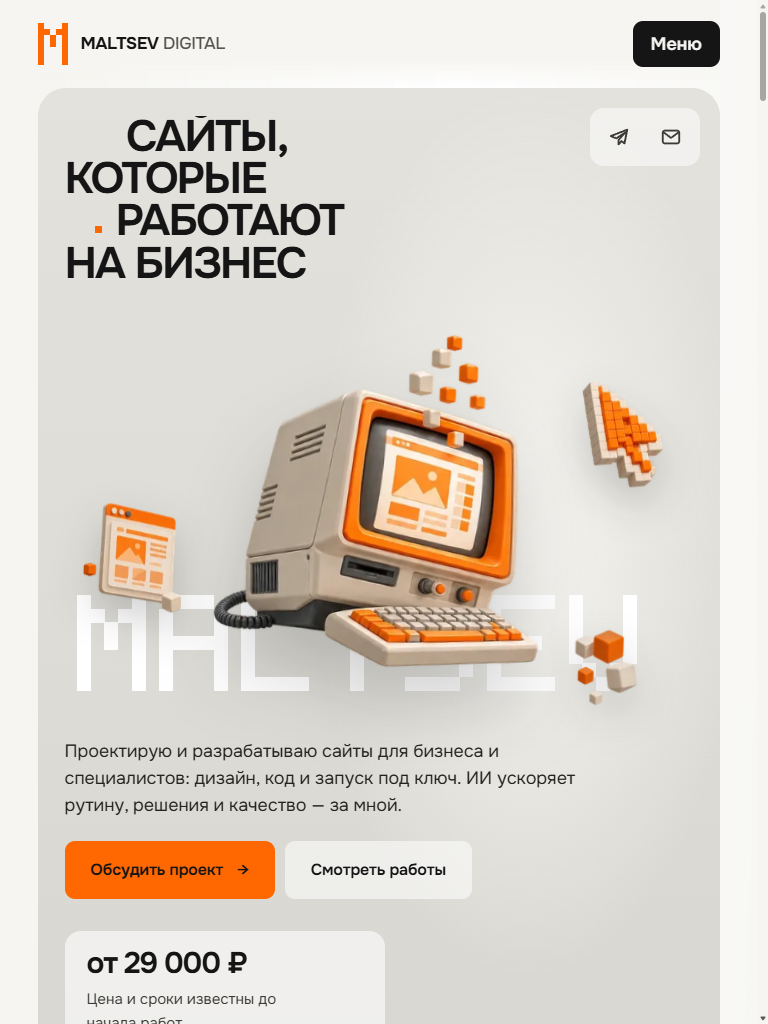
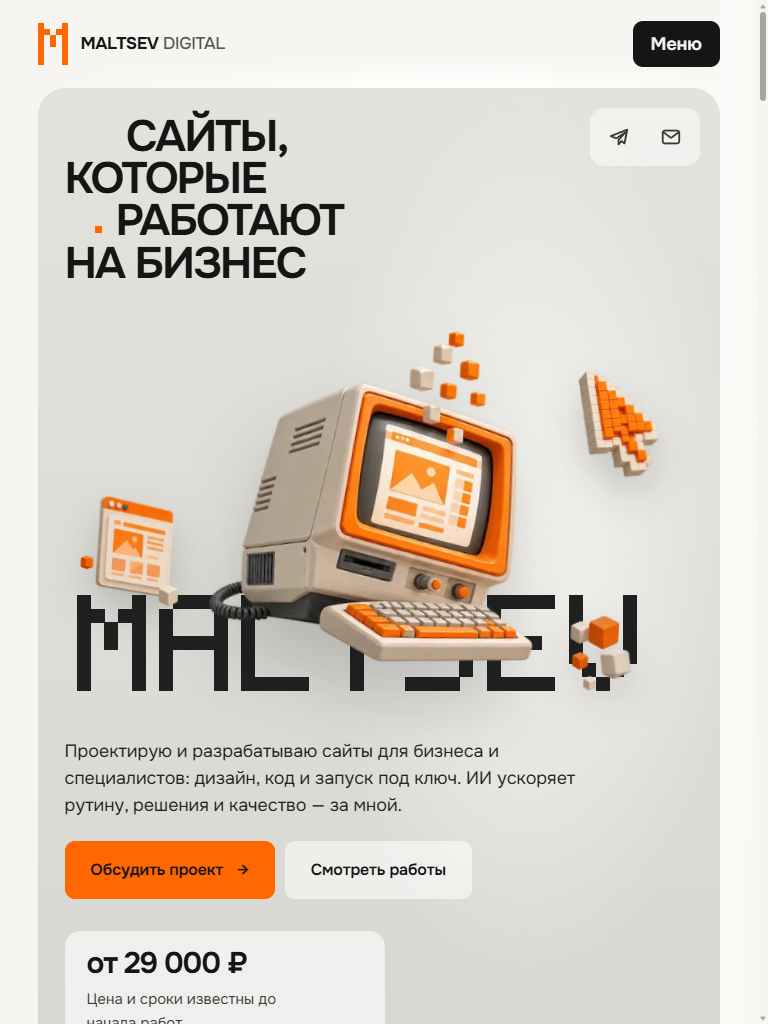
Fix contrast, clipped accents and layout overlaps
- Services comparison: heading row above a full-width flat table, so
  the uppercase title no longer overlaps it.
- Calculator: legends sit inside their tiles; options are white
  without outlines instead of grey-on-grey.
- Animated headings: line masks get top room so the breve of Й and
  the dots of Ё are not clipped; same for the hero title lines.
- Pixel words: orange on inner-page heroes, graphite behind the hero
  machine, instead of white on light grey.
- Thinner laptop, phone and device frames in the case showcase.
- Case page: stale gallery caption replaced, tab title no longer
  repeats the brand. Case screenshots re-shot.

Changed region(s): [[0.0938, 0.3125, 0.8438, 0.6875], [0.75, 0.3438, 0.875, 0.5], [0.25, 0.0938, 0.2812, 0.125]]

diff --git a/src/scripts/motion.ts b/src/scripts/motion.ts
@@ -78,6 +78,11 @@ function splitHeadings(): void {
       linesClass: 'split-line',
       autoSplit: true,
       onSplit(self) {
+        // Маска строки режет всё выше её верхнего края — дать место бревису Й и точкам Ё.
+        self.masks.forEach((m) => {
+          (m as HTMLElement).style.paddingTop = '0.16em';
+          (m as HTMLElement).style.marginTop = '-0.16em';
+        });
         return gsap.from(self.lines, {
           yPercent: 105,
           duration: 1.05,

diff --git a/src/content/projects/maltsev-digital.md b/src/content/projects/maltsev-digital.md
@@ -25,7 +25,7 @@ gallery:
     caption: Тарифы, сравнение и калькулятор стоимости
   - src: ../../assets/case/portfolio-desktop.png
     alt: Страница «Работы» с витриной этого кейса
-    caption: Сначала — сетка и порядок блоков
+    caption: Единственный кейс — крупной витриной, без пустых мест под будущие работы
 responsive:
   desktop: ../../assets/case/home-desktop.png
   tablet: ../../assets/case/home-tablet.png
